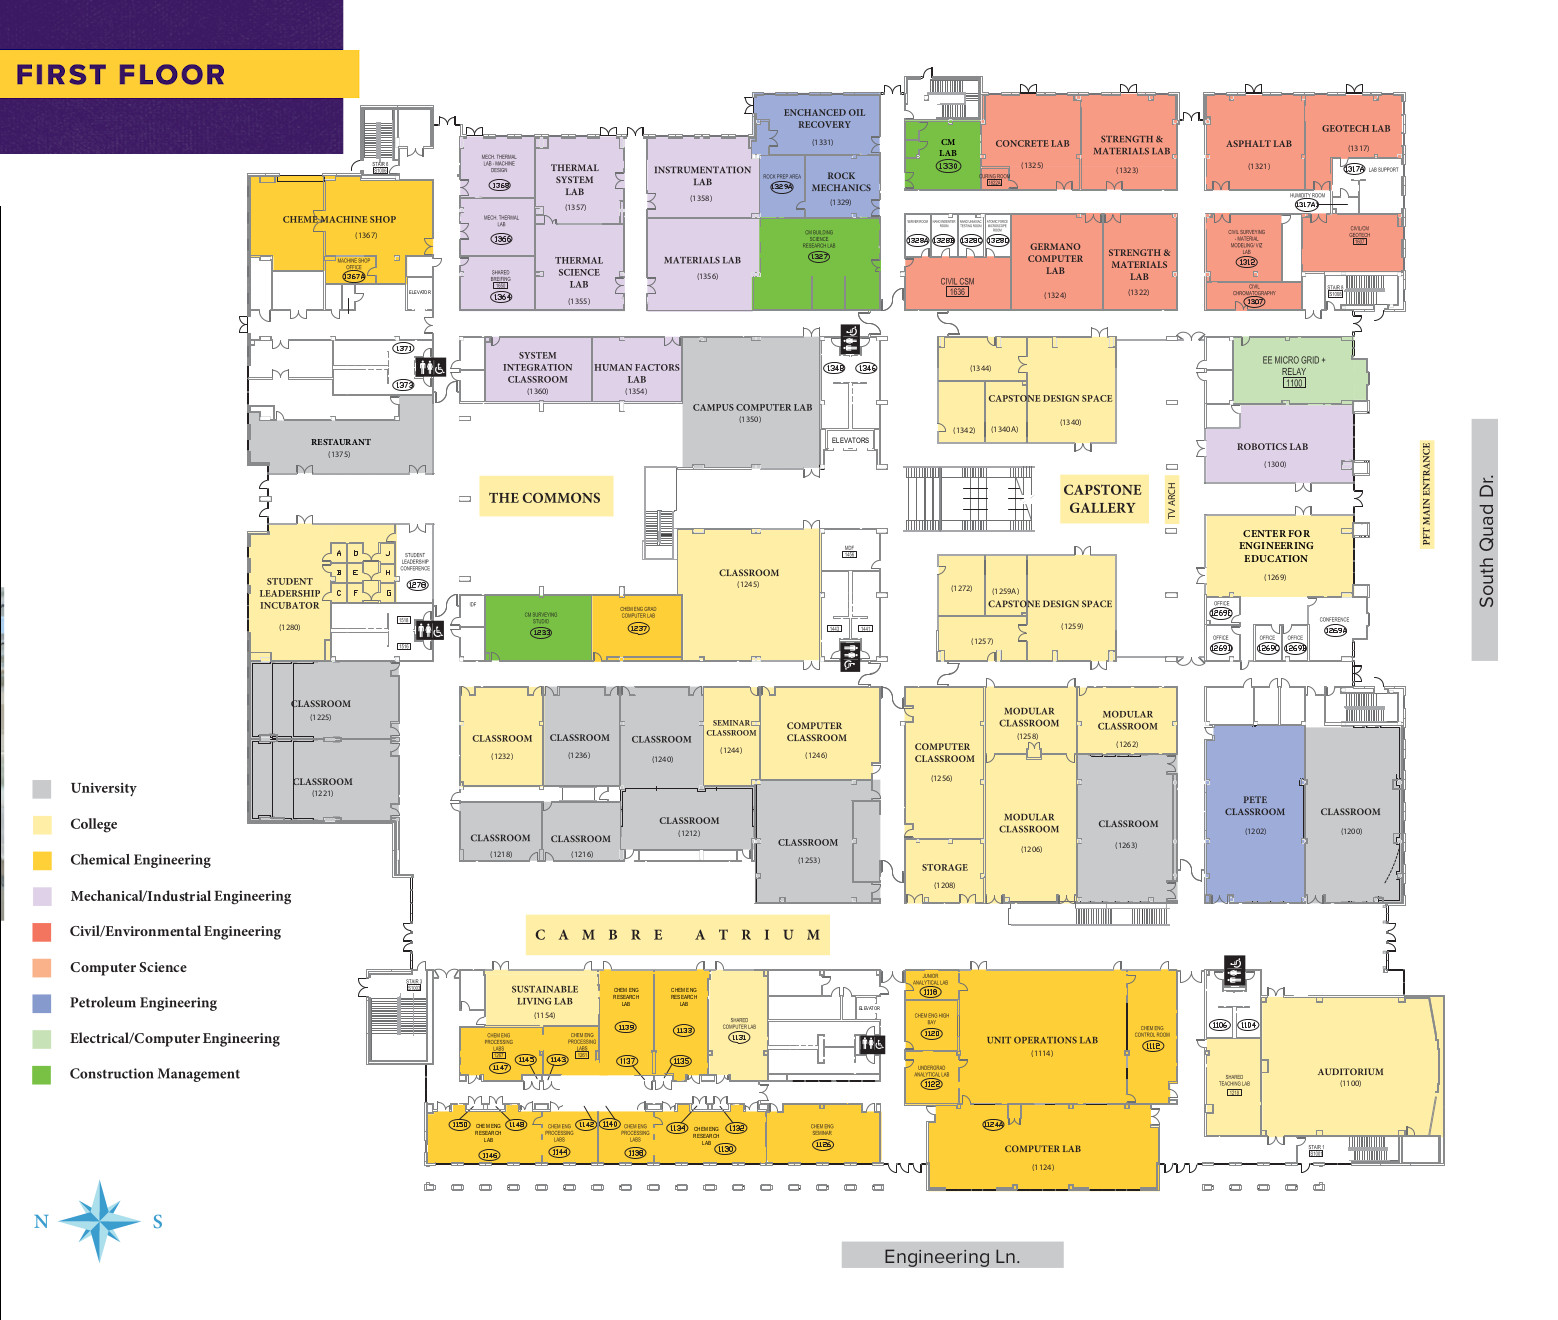
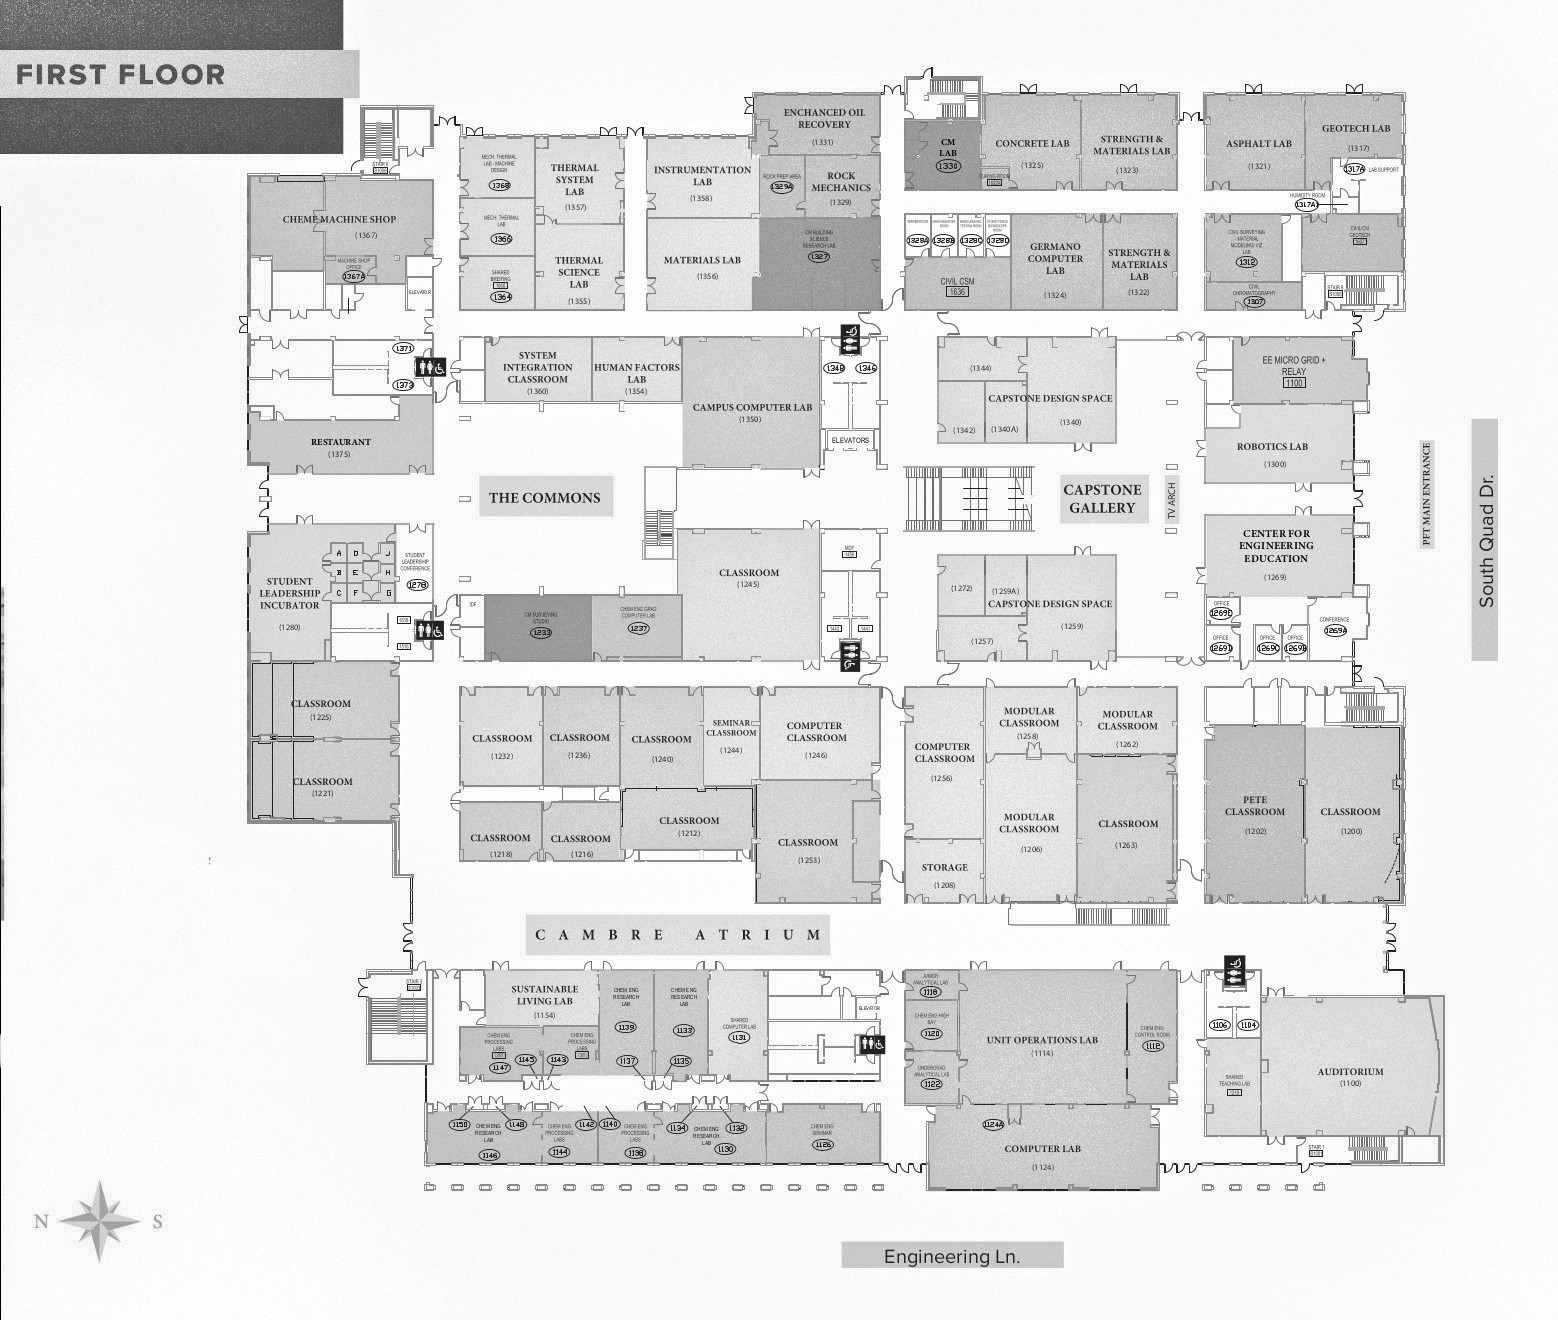
fixed formatting, grey scaled pft.

diff --git a/Models/MapUtilities.cs b/Models/MapUtilities.cs
@@ -299,9 +299,9 @@ namespace PB_JAW.Models
             string srcBuild = startingDetails[1].ToUpper().Replace("\n", String.Empty);
             string destBuild = endingDetails[1].ToUpper().Replace("\n", String.Empty);
 
-            string extDirections =  exitDirections(srcRoom, srcBuild, endingDetails[4], sqlCon);
-            string toDirections = destDirections(destRoom, destBuild, startingDetails[3], sqlCon);
-            string campDirections = campusDirections(startingDetails[3], endingDetails[0], sqlCon);
+            string extDirections =  ExitDirections(srcRoom, srcBuild, endingDetails[4], sqlCon);
+            string toDirections = DestDirections(destRoom, destBuild, startingDetails[3], sqlCon);
+            string campDirections = CampusDirections(startingDetails[3], endingDetails[0], sqlCon);
 
             directions = extDirections + campDirections + toDirections;
             //Delete, used for testing
@@ -309,7 +309,7 @@ namespace PB_JAW.Models
 
             sqlCon.Close();
         }
-        string exitDirections(string srcRoom, string srcBuild, string destBuild, SQLiteConnection con)
+        string ExitDirections(string srcRoom, string srcBuild, string destBuild, SQLiteConnection con)
         {
 
             using var cmd = new SQLiteCommand(con);
@@ -322,7 +322,7 @@ namespace PB_JAW.Models
             return directions;
         }
 
-        string destDirections(string destRoom, string destBuild, string srcBuild, SQLiteConnection con)
+        string DestDirections(string destRoom, string destBuild, string srcBuild, SQLiteConnection con)
         {
             using var cmd = new SQLiteCommand(con);
             string directions = "";
@@ -335,10 +335,12 @@ namespace PB_JAW.Models
             return directions;
         }
 
-        string campusDirections(string srcBuild, string destBuild, SQLiteConnection con)
+        string CampusDirections(string srcBuild, string destBuild, SQLiteConnection con)
         {
-            using var cmd = new SQLiteCommand(con);
-            cmd.CommandText = "SELECT " + srcBuild + " FROM CAMPUS WHERE BuildingID = @buildingID";
+            using var cmd = new SQLiteCommand(con)
+            {
+                CommandText = "SELECT " + srcBuild + " FROM CAMPUS WHERE BuildingID = @buildingID"
+            };
             cmd.Parameters.AddWithValue("@buildingID", destBuild);
             string directions = cmd.ExecuteScalar().ToString();
             return directions;

diff --git a/Controllers/MapController.cs b/Controllers/MapController.cs
@@ -11,7 +11,7 @@ namespace PB_JAW.Controllers
 {
     public class MapController : Controller
     {
-        private IWebHostEnvironment host;
+        private readonly IWebHostEnvironment host;
 
         public MapController(IWebHostEnvironment host)
         {
@@ -27,14 +27,8 @@ namespace PB_JAW.Controllers
             // create first map
             MapModel start = new MapModel();
             templateModel.AddMap(start);
-            numMaps--;
-
-
             MapModel destination = new MapModel();
             templateModel.AddMap(destination);
-            numMaps--;
-
-
             return View("MapBuilder", templateModel);
         }
 
